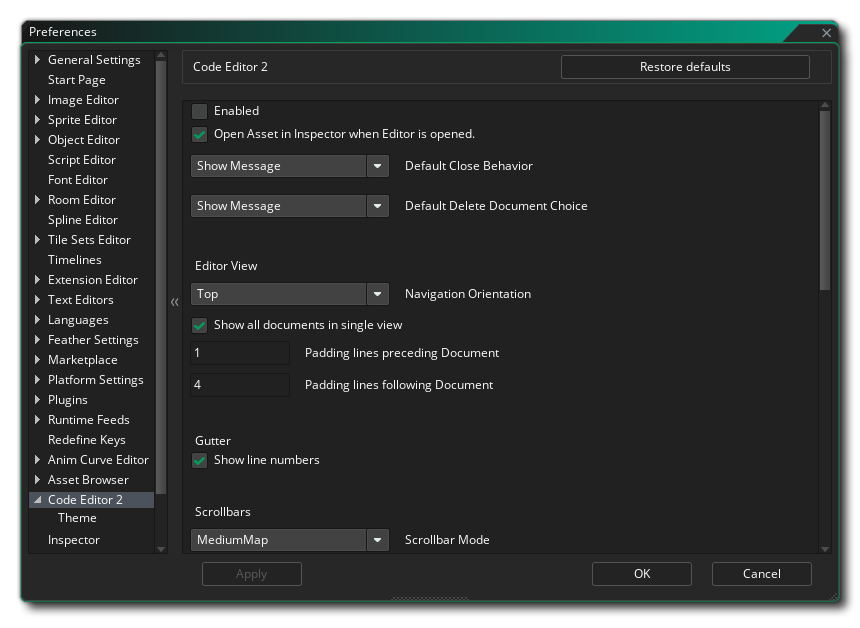
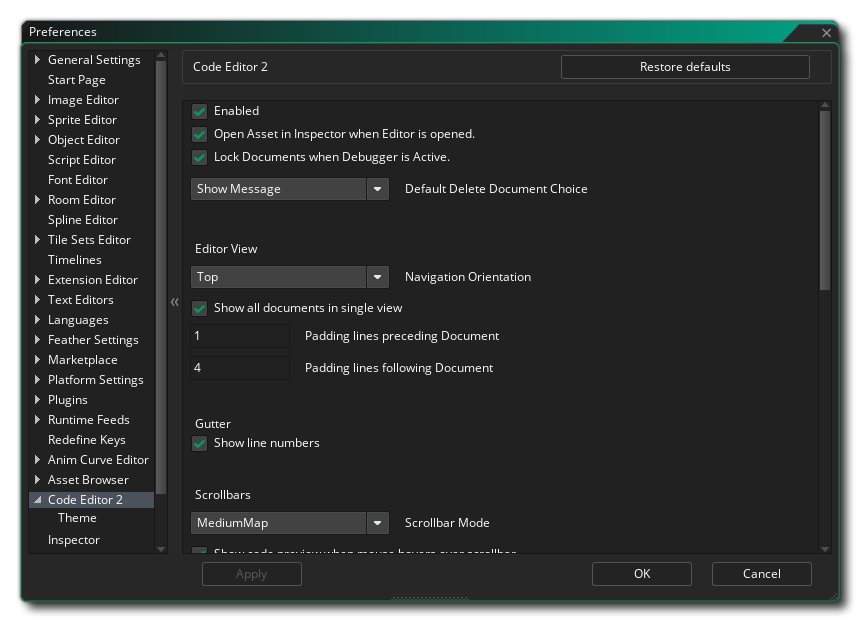
docs(feature): CE2 preferences update Descriptions for a couple preferences still to be updated https://github.com/YoYoGames/GameMaker-Bugs/issues/6885 https://github.com/YoYoGames/GameMaker-Bugs/issues/5363

diff --git a/Manual/contents/Setting_Up_And_Version_Information/IDE_Preferences/Text_Editor_2_Preferences.htm b/Manual/contents/Setting_Up_And_Version_Information/IDE_Preferences/Text_Editor_2_Preferences.htm
@@ -27,7 +27,7 @@
   <ul class="colour">
     <li><strong>Enabled</strong>: Enable or disable the <span data-keyref="Code_Editor2_Name">Code Editor</span>, disabling will make it fall back to the <span data-keyref="Code_Editor1_Name">Legacy Code Editor</span>. (Default: Disabled)</li>
     <li><strong>Open Asset in Inspector when Editor is opened</strong>: When you open an asset in the <span data-keyref="Code_Editor2_Name">Code Editor</span>, and this option is enabled, <a data-xref="{title}" href="../../IDE_Tools/The_Inspector.htm">The Inspector</a> will switch its focus to the newly opened asset so you can modify its properties. (Default: Enabled)</li>
-    <li><strong>Default Close Behaviour</strong>: This controls what happens when you close an editor window when there are unsaved changes in a document. You can choose to show the dialog message, or automatically save (<strong>Yes</strong>) or not save (<strong>No</strong>) the unsaved changes.</li>
+    <li><strong>Lock Documents when Debugger is active</strong>: This will lock the currently open documents from being changed while the Debugger is active.</li>
     <li><strong>Default Delete Document Choice</strong>: This controls what happens when you choose to delete a document. You can choose to show the dialog message, or automatically delete (<strong>Yes</strong>) or not delete (<strong>No</strong>) the document.</li>
   </ul>
   <h3>Editor View</h3>
@@ -50,8 +50,8 @@
       </ul>
     </li>
     <li><strong>Show code preview when mouse hovers over scrollbar</strong>: If enabled, hovering over the scroll map (if enabled) for a second will display a preview of the code at the position where the mouse is placed. (Default: Enabled)</li>
-    <li><strong>Show diagnostics on scrollbar</strong>: Whether diagnostics (such as syntax errors) should be displayed on the scrollbar. (Default: Disabled)</li>
     <li><strong>Allow overscroll</strong>: When enabled, allows you to scroll beyond the end of the last document up until its last line leaving the top boundary of the editor view. (Default: Disabled)</li>
+    <li><strong>Show diagnostics on scrollbar</strong>: Whether diagnostics (such as syntax errors) should be displayed on the scrollbar. (Default: Disabled)</li>
     <li><strong>Show sticky headers for documents</strong>: Whether document headers should stick to the top of the document view. (Default: Enabled)</li>
     <li><strong>Show sticky headers for statements</strong>: Whether foldable statements (such as if conditions, regions etc.) should stick to the top of the document view when the view has scrolled beyond it. (Default: Disabled)</li>
   </ul>
@@ -80,6 +80,9 @@
     <li><strong>Allow Overwrite Mode</strong>: When enabled, pressing <span class="shortcut">insert</span> will toggle between insertion mode and overwrite mode. When disabled, nothing will happen, and the editor will stay on insertion mode. (Default: Enabled)</li>
     <li><strong>Auto Indent Mode</strong>: See <a data-xref="{text}" href="../../The_Asset_Editors/Code_Editor_Properties/Editing_Text.htm#h1">Auto-Indent</a>.</li>
     <li><strong>Auto Indent clipboard contents</strong>: Whether automatic indentation should be applied to pasted code.</li>
+    <li><strong>Allow selected text to be dragged and dropped</strong>: This controls whether you are able to drag and drop selected text in an editor from one place in the document to another.</li>
+    <li><strong>Trim leading whitespace on backspace</strong>: Trim leading whitespace on backspace.</li>
+    <li><strong>Insert separating whitespace when joining lines</strong>: This controls whether whitespace is inserted when pressing <span class="shortcut">Backspace</span> at the start of a line to join it with the line before.</li>
     <li><strong>Undo/Redo stack limit</strong>: Size of the undo/redo stack limit which controls how many undo commands you can perform. Any value below 0 is considered as &quot;unlimited&quot;. (Default: -1)</li>
   </ul>
   <h2 id="h">Theme</h2>
